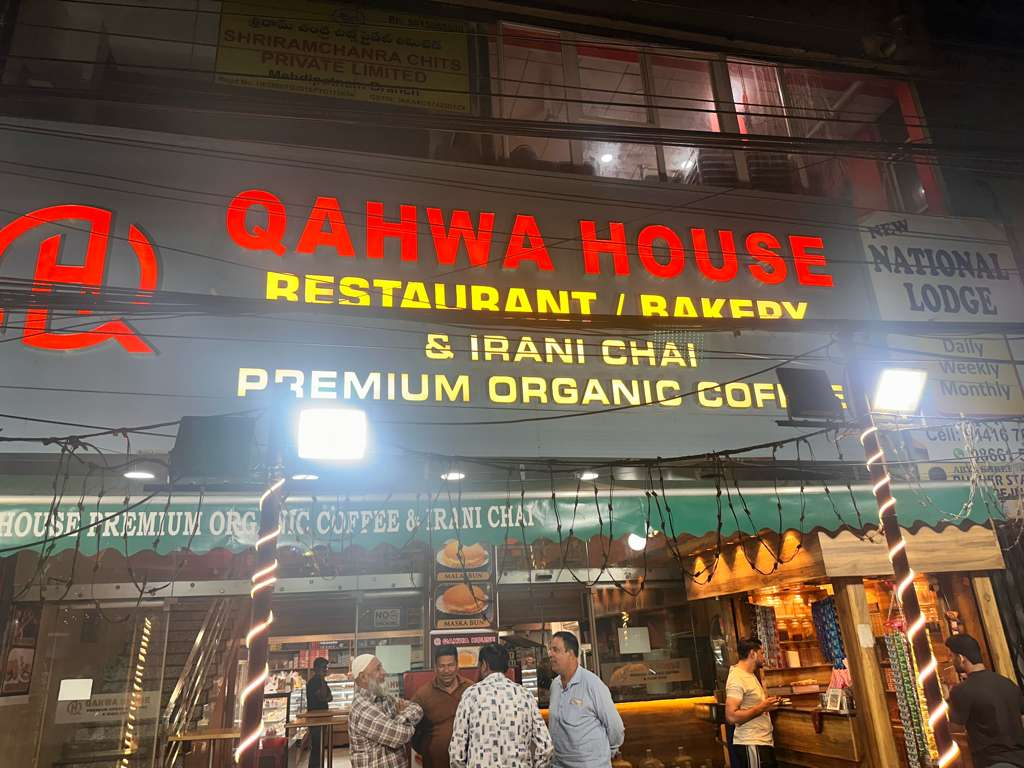
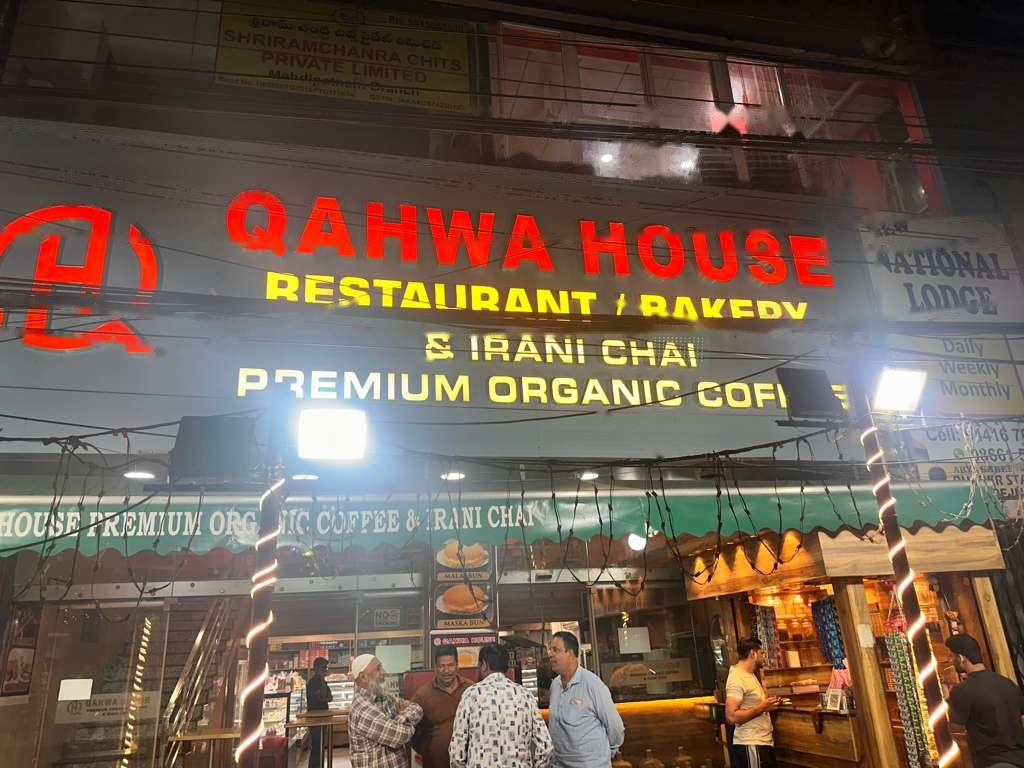
Retouch wires out of hero photo + add family reservation section
- Inpaint overhead street wires from the storefront hero (sign preserved);
  keep original as qahwa-14-orig.jpg and refresh og-image.
- New "Reserve a Family Table" section: upstairs family-section pitch + a
  request form that opens a pre-filled WhatsApp message to +91 87906 20996,
  with a call fallback. Added Reserve to nav and footer.

diff --git a/index.html b/index.html
@@ -272,13 +272,36 @@ footer{background:var(--espresso);color:var(--sand);padding:60px 0 26px}
 .socials a:hover{background:var(--terra);border-color:var(--terra);color:#fff}
 .foot-bot{border-top:1px solid rgba(228,207,169,.16);padding-top:22px;display:flex;flex-wrap:wrap;gap:10px;justify-content:space-between;font-size:.8rem;color:rgba(228,207,169,.6)}
 
+/* ───── RESERVE (family section) ───── */
+.reserve{background:radial-gradient(130% 120% at 0% 0%,rgba(226,116,47,.16),transparent 60%),var(--cream-2)}
+.res-grid{display:grid;grid-template-columns:1fr 1.04fr;gap:48px;align-items:center}
+.res-intro h2{font-size:clamp(2rem,4.8vw,2.9rem);font-weight:600;color:var(--espresso);margin:14px 0 16px;line-height:1.07}
+.res-intro p{color:var(--ink);opacity:.86;font-size:1.05rem;margin-bottom:22px}
+.res-perks{display:flex;flex-wrap:wrap;gap:10px;margin-bottom:26px}
+.res-perks span{display:inline-flex;align-items:center;gap:8px;background:#fff;border:1px solid rgba(124,100,80,.18);border-radius:30px;padding:9px 16px;font-size:.84rem;color:var(--wood)}
+.res-img{border-radius:16px;overflow:hidden;box-shadow:0 24px 50px -30px rgba(0,0,0,.45);max-width:340px}
+.res-img img{width:100%;height:100%;object-fit:cover}
+.res-card{background:#fff;border-radius:18px;padding:34px;box-shadow:0 30px 60px -34px rgba(0,0,0,.4);border:1px solid rgba(124,100,80,.14)}
+.res-card h3{font-size:1.4rem;font-weight:600;color:var(--espresso);margin-bottom:4px}
+.res-card .sub{color:var(--muted);font-size:.92rem;margin-bottom:22px}
+.field{margin-bottom:14px}
+.field label{display:block;font-family:"Marcellus",serif;font-size:.66rem;letter-spacing:.14em;text-transform:uppercase;color:var(--wood);margin-bottom:6px}
+.field input,.field select,.field textarea{width:100%;font-family:"Inter",sans-serif;font-size:.96rem;color:var(--ink);padding:12px 14px;border:1.5px solid rgba(124,100,80,.28);border-radius:10px;background:var(--cream);transition:.2s}
+.field input:focus,.field select:focus,.field textarea:focus{outline:none;border-color:var(--terra);background:#fff;box-shadow:0 0 0 3px rgba(201,83,30,.12)}
+.field textarea{resize:vertical;min-height:64px}
+.res-row{display:grid;grid-template-columns:1fr 1fr;gap:14px}
+.res-submit{width:100%;justify-content:center;margin-top:8px;font-size:.82rem}
+.res-foot{text-align:center;margin-top:14px;font-size:.82rem;color:var(--muted)}
+.res-foot a{color:var(--terra-d);font-weight:600;text-decoration:none}
+
 /* ───── RESPONSIVE ───── */
 @media(max-width:880px){
   .nav-links,.nav-call{display:none}
   .burger{display:flex}
   nav.open .nav-links{display:flex;position:absolute;top:100%;left:0;width:100%;flex-direction:column;gap:0;background:rgba(28,17,9,.98);padding:10px 0}
   nav.open .nav-links a{padding:15px 28px;width:100%;border-bottom:1px solid rgba(255,255,255,.06)}
-  .sig-grid,.story-grid,.visit-grid{grid-template-columns:1fr;gap:40px}
+  .sig-grid,.story-grid,.visit-grid,.res-grid{grid-template-columns:1fr;gap:40px}
+  .res-img{max-width:none}
   .sig-imgs .img-float{position:static;width:48%;margin-top:12px;display:inline-block}
   .mgrid{grid-template-columns:1fr;gap:0}
   .show-grid{grid-template-columns:repeat(2,1fr)}
@@ -307,6 +330,7 @@ footer{background:var(--espresso);color:var(--sand);padding:60px 0 26px}
     <li><a href="#bakery">Bakery</a></li>
     <li><a href="#story">Our Story</a></li>
     <li><a href="#gallery">Gallery</a></li>
+    <li><a href="#reserve">Reserve</a></li>
     <li><a href="#visit">Visit</a></li>
   </ul>
   <div class="nav-right">
@@ -522,6 +546,83 @@ footer{background:var(--espresso);color:var(--sand);padding:60px 0 26px}
   </div>
 </section>
 
+<!-- ═══ RESERVE (family section) ═══ -->
+<section class="reserve sec-pad" id="reserve">
+  <div class="wrap">
+    <div class="sec-head">
+      <div class="sunburst"></div>
+      <div class="eyebrow">Family Section</div>
+      <h2>Reserve a Family Table</h2>
+      <p>Planning a get-together? Reserve a spot in our comfortable upstairs family section — and we'll have it ready for you.</p>
+    </div>
+    <div class="res-grid">
+      <div class="res-intro">
+        <div class="eyebrow">Made for Gatherings</div>
+        <h2>Bring the whole family</h2>
+        <p>Our upstairs family section is air-conditioned, roomy, and perfect for birthdays, reunions, or a relaxed evening of chai and bakery with the people you love.</p>
+        <div class="res-perks">
+          <span>❄ Air-conditioned</span>
+          <span>👨👩👧👦 Family seating</span>
+          <span>🎂 Birthdays &amp; events</span>
+          <span>☕ Chai · Coffee · Bakery</span>
+        </div>
+        <div class="res-img">
+          <img src="assets/photos/qahwa-10.jpg" width="1024" height="768" loading="lazy" alt="Qahwa House upstairs family section with wood panelling and comfortable seating">
+        </div>
+      </div>
+
+      <div class="res-card">
+        <h3>Request a Table</h3>
+        <div class="sub">Fill this in and we'll confirm your booking on WhatsApp.</div>
+        <form id="resForm">
+          <div class="field">
+            <label for="rName">Your Name</label>
+            <input id="rName" name="name" type="text" placeholder="e.g. Ahmed Khan" required>
+          </div>
+          <div class="field">
+            <label for="rPhone">Mobile Number</label>
+            <input id="rPhone" name="phone" type="tel" placeholder="e.g. 98765 43210" required>
+          </div>
+          <div class="res-row">
+            <div class="field">
+              <label for="rDate">Date</label>
+              <input id="rDate" name="date" type="date" required>
+            </div>
+            <div class="field">
+              <label for="rTime">Time</label>
+              <input id="rTime" name="time" type="time" required>
+            </div>
+          </div>
+          <div class="res-row">
+            <div class="field">
+              <label for="rGuests">Guests</label>
+              <select id="rGuests" name="guests" required>
+                <option value="" disabled selected>Select</option>
+                <option>1–2</option><option>3–4</option><option>5–6</option>
+                <option>7–10</option><option>10–15</option><option>15+</option>
+              </select>
+            </div>
+            <div class="field">
+              <label for="rOccasion">Occasion</label>
+              <select id="rOccasion" name="occasion">
+                <option value="" disabled selected>Optional</option>
+                <option>Family meal</option><option>Birthday</option>
+                <option>Get-together</option><option>Other</option>
+              </select>
+            </div>
+          </div>
+          <div class="field">
+            <label for="rNotes">Anything else? (optional)</label>
+            <textarea id="rNotes" name="notes" placeholder="Special requests, cake, decorations…"></textarea>
+          </div>
+          <button type="submit" class="btn btn-solid res-submit">Send Request on WhatsApp</button>
+        </form>
+        <p class="res-foot">Prefer to talk? <a href="tel:+918790620996">Call +91 87906 20996</a></p>
+      </div>
+    </div>
+  </div>
+</section>
+
 <!-- ═══ VISIT ═══ -->
 <section class="visit sec-pad" id="visit">
   <div class="wrap">
@@ -585,6 +686,7 @@ footer{background:var(--espresso);color:var(--sand);padding:60px 0 26px}
         <a href="#bakery">Bakery</a>
         <a href="#story">Our Story</a>
         <a href="#gallery">Gallery</a>
+        <a href="#reserve">Reserve a Table</a>
       </div>
       <div class="foot-col">
         <h4>Visit</h4>
@@ -620,6 +722,24 @@ tabs.addEventListener('click',function(e){
   b.classList.add('on');
   document.getElementById('p-'+b.dataset.p).classList.add('on');
 });
+// family reservation -> WhatsApp
+var resForm=document.getElementById('resForm');
+if(resForm){
+  resForm.addEventListener('submit',function(e){
+    e.preventDefault();
+    var v=function(id){return (document.getElementById(id).value||'').trim();};
+    var msg=
+      "*Family Section Reservation — Qahwa House*\n"+
+      "Name: "+v('rName')+"\n"+
+      "Mobile: "+v('rPhone')+"\n"+
+      "Date: "+v('rDate')+"\n"+
+      "Time: "+v('rTime')+"\n"+
+      "Guests: "+v('rGuests')+
+      (v('rOccasion')? "\nOccasion: "+v('rOccasion'):"")+
+      (v('rNotes')? "\nNotes: "+v('rNotes'):"");
+    window.open('https://wa.me/918790620996?text='+encodeURIComponent(msg),'_blank');
+  });
+}
 </script>
 </body>
 </html>
